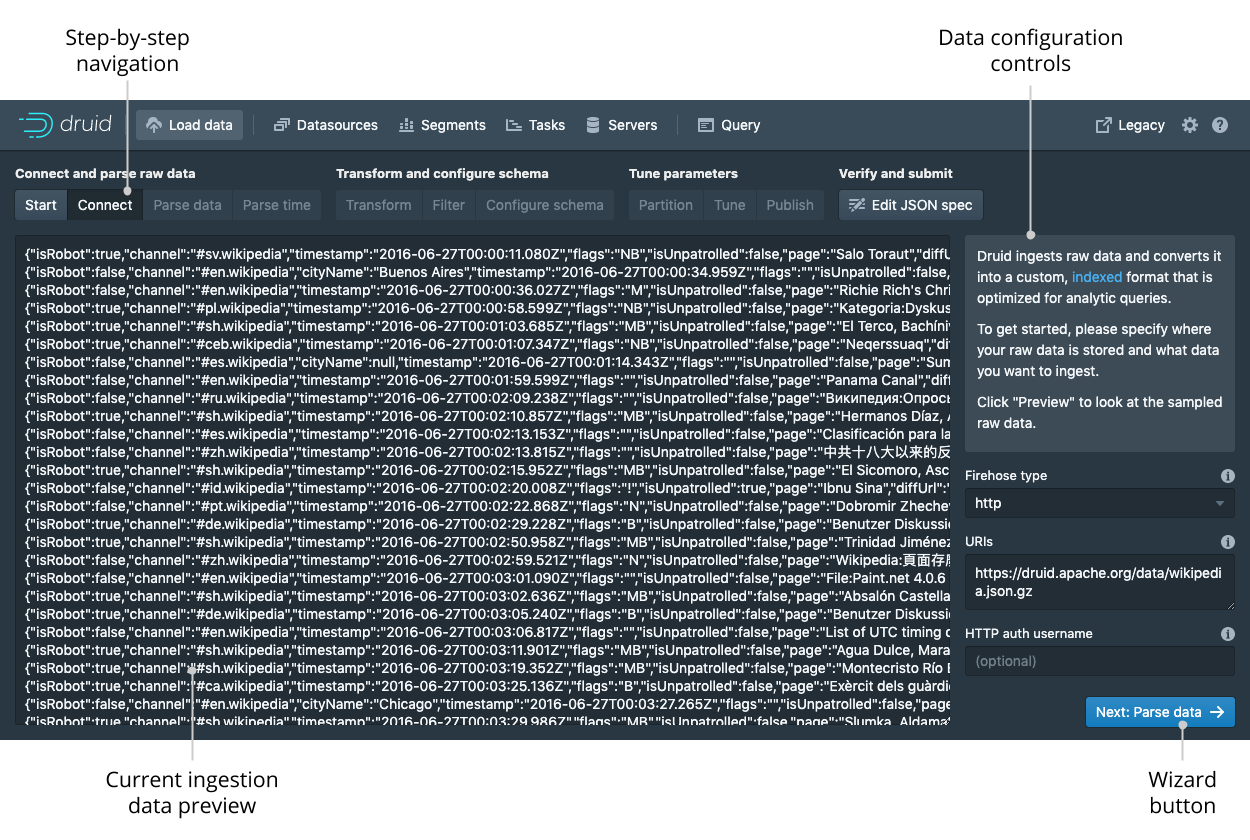
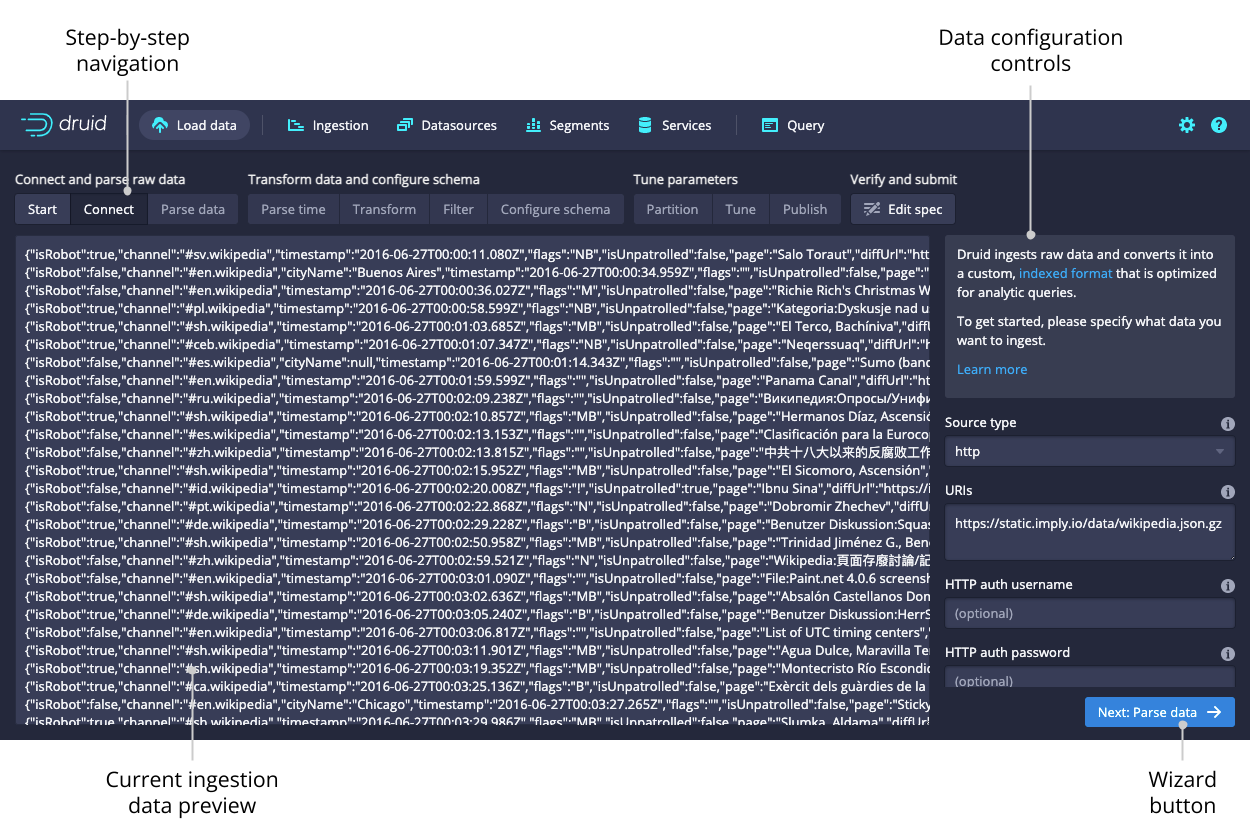
Update screenshots for Druid console doc (#12593)
* druid console doc updates

* remove extra image

* Apply suggestions from code review

* Apply suggestions from code review

* Apply suggestions from code review

* updated screenshot labels

diff --git a/docs/operations/druid-console.md b/docs/operations/druid-console.md
@@ -1,6 +1,6 @@
 ---
 id: druid-console
-title: "Web console"
+title: "Druid console"
 ---
 
 <!--
@@ -22,17 +22,15 @@ title: "Web console"
   ~ under the License.
   -->
 
-Druid includes a console for managing datasources, segments, tasks, data processes (Historicals and MiddleManagers), and coordinator dynamic configuration. You can also run SQL and native Druid queries in the console.
+Druid includes a web console for loading data, managing datasources and tasks, and viewing server status and segment information.
+You can also run SQL and native Druid queries in the console.
 
-The Druid Console is hosted by the [Router](../design/router.md) process.
+Enable the following cluster settings to use the Druid console. Note that these settings are enabled by default.
+- Enable the Router's [management proxy](../design/router.md#enabling-the-management-proxy).
+- Enable [Druid SQL](../configuration/index.md#sql) for the Broker processes in the cluster.
 
-The following cluster settings must be enabled, as they are by default:
-
-- the Router's [management proxy](../design/router.md#enabling-the-management-proxy) must be enabled.
-- the Broker processes in the cluster must have [Druid SQL](../querying/sql.md) enabled.
-
-You can access the Druid console at:
-
+The [Router](../design/router.md) service hosts the Druid console.
+Access the Druid console at the following address:
 ```
 http://<ROUTER_IP>:<ROUTER_PORT>
 ```
@@ -41,36 +39,50 @@ http://<ROUTER_IP>:<ROUTER_PORT>
 will show console users the files that the underlying user has permissions to. In general, avoid running Druid as 
 root user. Consider creating a dedicated user account for running Druid.
 
-Below is a description of the high-level features and functionality of the Druid Console
+This topic presents the high-level features and functionality of the Druid console.
 
 ## Home
 
-The home view provides a high level overview of the cluster.
+The **Home** view provides a high-level overview of the cluster.
 Each card is clickable and links to the appropriate view.
-The legacy menu allows you to go to the [legacy coordinator and overlord consoles](./management-uis.md#legacy-consoles) should you need them.
+
+The **Home** view displays the following cards:
+
+* __Status__. Click this card for information on the Druid version and any extensions loaded on the cluster.
+* [Datasources](#datasources)
+* [Segments](#segments)
+* [Supervisors](#supervisors-and-tasks)
+* [Tasks](#supervisors-and-tasks)
+* [Services](#services)
+* [Lookups](#lookups)
+
+You can access the [data loader](#data-loader) and [lookups view](#lookups) from the top-level navigation of the **Home** view.
 
 ![home-view](../assets/web-console-01-home-view.png "home view")
 
 ## Data loader
 
-The data loader view allows you to load data by building an ingestion spec with a step-by-step wizard.
+You can use the data loader to build an ingestion spec with a step-by-step wizard.
 
 ![data-loader-1](../assets/web-console-02-data-loader-1.png)
 
-After selecting the location of your data just follow the series for steps that will show you incremental previews of the data as it will be ingested.
-After filling in the required details on every step you can navigate to the next step by clicking the `Next` button.
+After selecting the location of your data, follow the series of steps displaying incremental previews of the data as it is ingested.
+After filling in the required details on every step you can navigate to the next step by clicking **Next**.
 You can also freely navigate between the steps from the top navigation.
 
-Navigating with the top navigation will leave the underlying spec unmodified while clicking the `Next` button will attempt to fill in the subsequent steps with appropriate defaults.
+Navigating with the top navigation leaves the underlying spec unmodified while clicking **Next** attempts to fill in the subsequent steps with appropriate defaults.
 
 ![data-loader-2](../assets/web-console-03-data-loader-2.png)
 
 ## Datasources
 
-The datasources view shows all the currently enabled datasources.
-From this view, you can see the sizes and availability of the different datasources.
-You can edit the retention rules, configure automatic compaction, and drop data.
-Like any view that is powered by a DruidSQL query you can click `View SQL query for table` from the `...` menu to run the underlying SQL query directly.
+The **Datasources** view shows all the datasources currently loaded on the cluster, as well as their sizes and availability.
+From the **Datasources** view, you can edit the retention rules, configure automatic compaction, and drop data in a datasource.
+
+A datasource is partitioned into one or more segments organized by time chunks.
+To display a timeline of segments, toggle the option for **Show segment timeline**.
+
+Like any view that is powered by a Druid SQL query, you can click **View SQL query for table** from the ellipsis menu to run the underlying SQL query directly.
 
 ![datasources](../assets/web-console-04-datasources.png)
 
@@ -80,17 +92,20 @@ You can view and edit retention rules to determine the general availability of a
 
 ## Segments
 
-The segment view shows all the segments in the cluster.
+The **Segments** view shows all the [segments](../design/segments.md) in the cluster.
 Each segment has a detail view that provides more information.
 The Segment ID is also conveniently broken down into Datasource, Start, End, Version, and Partition columns for ease of filtering and sorting.
 
 ![segments](../assets/web-console-06-segments.png)
 
-## Tasks and supervisors
+## Supervisors and tasks
 
 From this view, you can check the status of existing supervisors as well as suspend, resume, and reset them.
-The tasks table allows you see the currently running and recently completed tasks.
-To make managing a lot of tasks more accessible, you can group the tasks by their `Type`, `Datasource`, or `Status` to make navigation easier.
+The supervisor oversees the state of the indexing tasks to coordinate handoffs, manage failures, and ensure that the scalability and replication requirements are maintained.
+
+The tasks table allows you to see the currently running and recently completed tasks.
+To navigate your tasks more easily, you can group them by their **Type**, **Datasource**, or **Status**.
+Submit a task manually by clicking the ellipsis icon and selecting **Submit JSON task**.
 
 ![supervisors](../assets/web-console-07-supervisors.png)
 
@@ -102,27 +117,29 @@ Click on the magnifying glass for any task to see more detail about it.
 
 ![tasks-status](../assets/web-console-09-task-status.png)
 
-## Servers
+## Services
 
-The servers tab lets you see the current status of the nodes making up your cluster.
+The **Services** view lets you see the current status of the nodes making up your cluster.
 You can group the nodes by type or by tier to get meaningful summary statistics. 
 
 ![servers](../assets/web-console-10-servers.png)
 
 ## Query
 
-The query view lets you issue [DruidSQL](../querying/sql.md) queries and display the results as a table.
-The view will attempt to infer your query and let you modify via contextual actions such as adding filters and changing the sort order when possible.
+The **Query** view lets you issue [Druid SQL](../querying/sql.md) queries and display the results as a table.
+The view will attempt to infer your query and let you modify the query via contextual actions such as adding filters and changing the sort order when possible.
+
+From the ellipsis menu beside **Run**, you can view your query history, see the native query translation for a given Druid SQL query, and set the [query context](../querying/query-context.md).
 
 ![query-sql](../assets/web-console-11-query-sql.png)
 
-The query view can also issue queries in Druid's [native query format](../querying/querying.md), which is JSON over HTTP.
-To send a native Druid query, you must start your query with `{` and format it as JSON.
+You can also use the query editor to issue queries in Druid's [native query format](../querying/querying.md), which is JSON over HTTP.
 
 ![query-rune](../assets/web-console-12-query-rune.png)
 
 ## Lookups
 
-You can create and edit query time lookups via the lookup view.
+Access the **Lookups** view from the **Lookups** card in the home view or by clicking on the gear icon in the upper right corner.
+Here you can create and edit query time [lookups](../querying/lookups.md).
 
 ![lookups](../assets/web-console-13-lookups.png)

diff --git a/docs/operations/security-overview.md b/docs/operations/security-overview.md
@@ -37,7 +37,7 @@ The following recommendations apply to the Druid cluster setup:
    > **WARNING!** \
    Druid administrators have the same OS permissions as the Unix user account running Druid. See [Authentication and authorization model](security-user-auth.md#authentication-and-authorization-model). If the Druid process is running under the OS root user account, then Druid administrators can read or write all files that the root account has access to, including sensitive files such as `/etc/passwd`.
 * Enable authentication to the Druid cluster for production environments and other environments that can be accessed by untrusted networks.
-* Enable authorization and do not expose the Druid Console without authorization enabled. If authorization is not enabled, any user that has access to the web console has the same privileges as the operating system user that runs the Druid Console process.
+* Enable authorization and do not expose the Druid console without authorization enabled. If authorization is not enabled, any user that has access to the web console has the same privileges as the operating system user that runs the Druid console process.
 * Grant users the minimum permissions necessary to perform their functions. For instance, do not allow users who only need to query data to write to data sources or view state.
 * Do not provide plain-text passwords for production systems in configuration specs. For example, sensitive properties should not be in the `consumerProperties` field of `KafkaSupervisorIngestionSpec`. See [Environment variable dynamic config provider](./dynamic-config-provider.md#environment-variable-dynamic-config-provider) for more information.
 * Disable JavaScript, as noted in the [Security section](https://druid.apache.org/docs/latest/development/javascript.html#security) of the JavaScript guide.
@@ -51,7 +51,7 @@ The following recommendations apply to the network where Druid runs:
 * When possible, use firewall and other network layer filtering to only expose Druid services and ports specifically required for your use case. For example, only expose Broker ports to downstream applications that execute queries. You can limit access to a specific IP address or IP range to further tighten and enhance security.
 
 The following recommendation applies to Druid's authorization and authentication model:
-* Only grant `WRITE` permissions to any `DATASOURCE` to trusted users. Druid's trust model assumes those users have the same privileges as the operating system user that runs the Druid Console process. Additionally, users with `WRITE` permissions can make changes to datasources and they have access to both task and supervisor update (POST) APIs which may affect ingestion.
+* Only grant `WRITE` permissions to any `DATASOURCE` to trusted users. Druid's trust model assumes those users have the same privileges as the operating system user that runs the Druid console process. Additionally, users with `WRITE` permissions can make changes to datasources and they have access to both task and supervisor update (POST) APIs which may affect ingestion.
 * Only grant `STATE READ`, `STATE WRITE`, `CONFIG WRITE`, and `DATASOURCE WRITE` permissions to highly-trusted users. These permissions allow users to access resources on behalf of the Druid server process regardless of the datasource.
 * If your Druid client application allows less-trusted users to control the input source or firehose of an ingestion task, validate the URLs from the users. It is possible to point unchecked URLs to other locations and resources within your network or local file system.
 

diff --git a/docs/tutorials/tutorial-compaction.md b/docs/tutorials/tutorial-compaction.md
@@ -47,7 +47,7 @@ bin/post-index-task --file quickstart/tutorial/compaction-init-index.json --url 
 > Please note that `maxRowsPerSegment` in the ingestion spec is set to 1000. This is to generate multiple segments per hour and _NOT_ recommended in production.
 > It's 5000000 by default and may need to be adjusted to make your segments optimized.
 
-After the ingestion completes, go to [http://localhost:8888/unified-console.html#datasources](http://localhost:8888/unified-console.html#datasources) in a browser to see the new datasource in the Druid Console.
+After the ingestion completes, go to [http://localhost:8888/unified-console.html#datasources](http://localhost:8888/unified-console.html#datasources) in a browser to see the new datasource in the Druid console.
 
 ![compaction-tutorial datasource](../assets/tutorial-compaction-01.png "compaction-tutorial datasource")
 
@@ -104,13 +104,13 @@ After the task finishes, refresh the [segments view](http://localhost:8888/unifi
 
 The original 51 segments will eventually be marked as "unused" by the Coordinator and removed, with the new compacted segments remaining.
 
-By default, the Druid Coordinator will not mark segments as unused until the Coordinator process has been up for at least 15 minutes, so you may see the old segment set and the new compacted set at the same time in the Druid Console, with 75 total segments:
+By default, the Druid Coordinator will not mark segments as unused until the Coordinator process has been up for at least 15 minutes, so you may see the old segment set and the new compacted set at the same time in the Druid console, with 75 total segments:
 
 ![Compacted segments intermediate state 1](../assets/tutorial-compaction-03.png "Compacted segments intermediate state 1")
 
 ![Compacted segments intermediate state 2](../assets/tutorial-compaction-04.png "Compacted segments intermediate state 2")
 
-The new compacted segments have a more recent version than the original segments, so even when both sets of segments are shown in the Druid Console, queries will only read from the new compacted segments.
+The new compacted segments have a more recent version than the original segments, so even when both sets of segments are shown in the Druid console, queries will only read from the new compacted segments.
 
 Let's try running a COUNT(*) on `compaction-tutorial` again, where the row count should still be 39,244:
 

diff --git a/docs/design/router.md b/docs/design/router.md
@@ -24,13 +24,13 @@ title: "Router Process"
 
 
 > The Router is an optional and [experimental](../development/experimental.md) feature due to the fact that its recommended place in the Druid cluster architecture is still evolving.
-> However, it has been battle-tested in production, and it hosts the powerful [Druid Console](../operations/druid-console.md), so you should feel safe deploying it.
+> However, it has been battle-tested in production, and it hosts the powerful [Druid console](../operations/druid-console.md), so you should feel safe deploying it.
 
 The Apache Druid Router process can be used to route queries to different Broker processes. By default, the broker routes queries based on how [Rules](../operations/rule-configuration.md) are set up. For example, if 1 month of recent data is loaded into a `hot` cluster, queries that fall within the recent month can be routed to a dedicated set of brokers. Queries outside this range are routed to another set of brokers. This set up provides query isolation such that queries for more important data are not impacted by queries for less important data.
 
 For query routing purposes, you should only ever need the Router process if you have a Druid cluster well into the terabyte range.
 
-In addition to query routing, the Router also runs the [Druid Console](../operations/druid-console.md), a management UI for datasources, segments, tasks, data processes (Historicals and MiddleManagers), and coordinator dynamic configuration. The user can also run SQL and native Druid queries within the console.
+In addition to query routing, the Router also runs the [Druid console](../operations/druid-console.md), a management UI for datasources, segments, tasks, data processes (Historicals and MiddleManagers), and coordinator dynamic configuration. The user can also run SQL and native Druid queries within the console.
 
 ### Configuration
 

diff --git a/docs/tutorials/tutorial-retention.md b/docs/tutorials/tutorial-retention.md
@@ -41,7 +41,7 @@ The ingestion spec can be found at `quickstart/tutorial/retention-index.json`. L
 bin/post-index-task --file quickstart/tutorial/retention-index.json --url http://localhost:8081
 ```
 
-After the ingestion completes, go to [http://localhost:8888/unified-console.html#datasources](http://localhost:8888/unified-console.html#datasources) in a browser to access the Druid Console's datasource view.
+After the ingestion completes, go to [http://localhost:8888/unified-console.html#datasources](http://localhost:8888/unified-console.html#datasources) in a browser to access the Druid console's datasource view.
 
 This view shows the available datasources and a summary of the retention rules for each datasource:
 
@@ -85,7 +85,7 @@ Now click `Save`. You can see the new rules in the datasources view:
 
 ![New rules](../assets/tutorial-retention-05.png "New rules")
 
-Give the cluster a few minutes to apply the rule change, and go to the [segments view](http://localhost:8888/unified-console.html#segments) in the Druid Console.
+Give the cluster a few minutes to apply the rule change, and go to the [segments view](http://localhost:8888/unified-console.html#segments) in the Druid console.
 The segments for the first 12 hours of 2015-09-12 are now gone:
 
 ![New segments](../assets/tutorial-retention-06.png "New segments")

diff --git a/docs/development/extensions-core/druid-pac4j.md b/docs/development/extensions-core/druid-pac4j.md
@@ -25,7 +25,7 @@ title: "Druid pac4j based Security extension"
 
 Apache Druid Extension to enable [OpenID Connect](https://openid.net/connect/) based Authentication for Druid Processes using [pac4j](https://github.com/pac4j/pac4j) as the underlying client library.
 This can be used  with any authentication server that supports same e.g. [Okta](https://developer.okta.com/).
-This extension should only be used at the router node to enable a group of users in existing authentication server to interact with Druid cluster, using the [Web Console](../../operations/druid-console.md). This extension does not support JDBC client authentication.
+This extension should only be used at the router node to enable a group of users in existing authentication server to interact with Druid cluster, using the [Druid console](../../operations/druid-console.md). This extension does not support JDBC client authentication.
 
 ## Configuration
 

diff --git a/docs/tutorials/tutorial-query.md b/docs/tutorials/tutorial-query.md
@@ -147,7 +147,7 @@ performance issues. For more information, see [Native queries](../querying/query
 
 9. Finally, click  `...`  and **Edit context** to see how you can add additional parameters controlling the execution of the query execution. In the field, enter query context options as JSON key-value pairs, as described in [Context flags](../querying/query-context.md).  
 
-That's it! We've built a simple query using some of the query builder features built into the Druid Console. The following
+That's it! We've built a simple query using some of the query builder features built into the Druid console. The following
 sections provide a few more example queries you can try. Also, see [Other ways to invoke SQL queries](#other-ways-to-invoke-sql-queries) to learn how
 to run Druid SQL from the command line or over HTTP. 
 

diff --git a/docs/design/processes.md b/docs/design/processes.md
@@ -78,7 +78,7 @@ caller. End users typically query Brokers rather than querying Historicals or Mi
 Overlords, and Coordinators. They are optional since you can also simply contact the Druid Brokers, Overlords, and
 Coordinators directly.
 
-The Router also runs the [Druid Console](../operations/druid-console.md), a management UI for datasources, segments, tasks, data processes (Historicals and MiddleManagers), and coordinator dynamic configuration. The user can also run SQL and native Druid queries within the console.
+The Router also runs the [Druid console](../operations/druid-console.md), a management UI for datasources, segments, tasks, data processes (Historicals and MiddleManagers), and coordinator dynamic configuration. The user can also run SQL and native Druid queries within the console.
 
 ### Data server
 

diff --git a/docs/tutorials/tutorial-kafka.md b/docs/tutorials/tutorial-kafka.md
@@ -254,7 +254,7 @@ If the supervisor was successfully created, you will get a response containing t
 For more details about what's going on here, check out the
 [Druid Kafka indexing service documentation](../development/extensions-core/kafka-ingestion.md).
 
-You can view the current supervisors and tasks in the Druid Console: [http://localhost:8888/unified-console.md#tasks](http://localhost:8888/unified-console.html#tasks).
+You can view the current supervisors and tasks in the Druid console: [http://localhost:8888/unified-console.md#tasks](http://localhost:8888/unified-console.html#tasks).
 
 ## Querying your data
 
